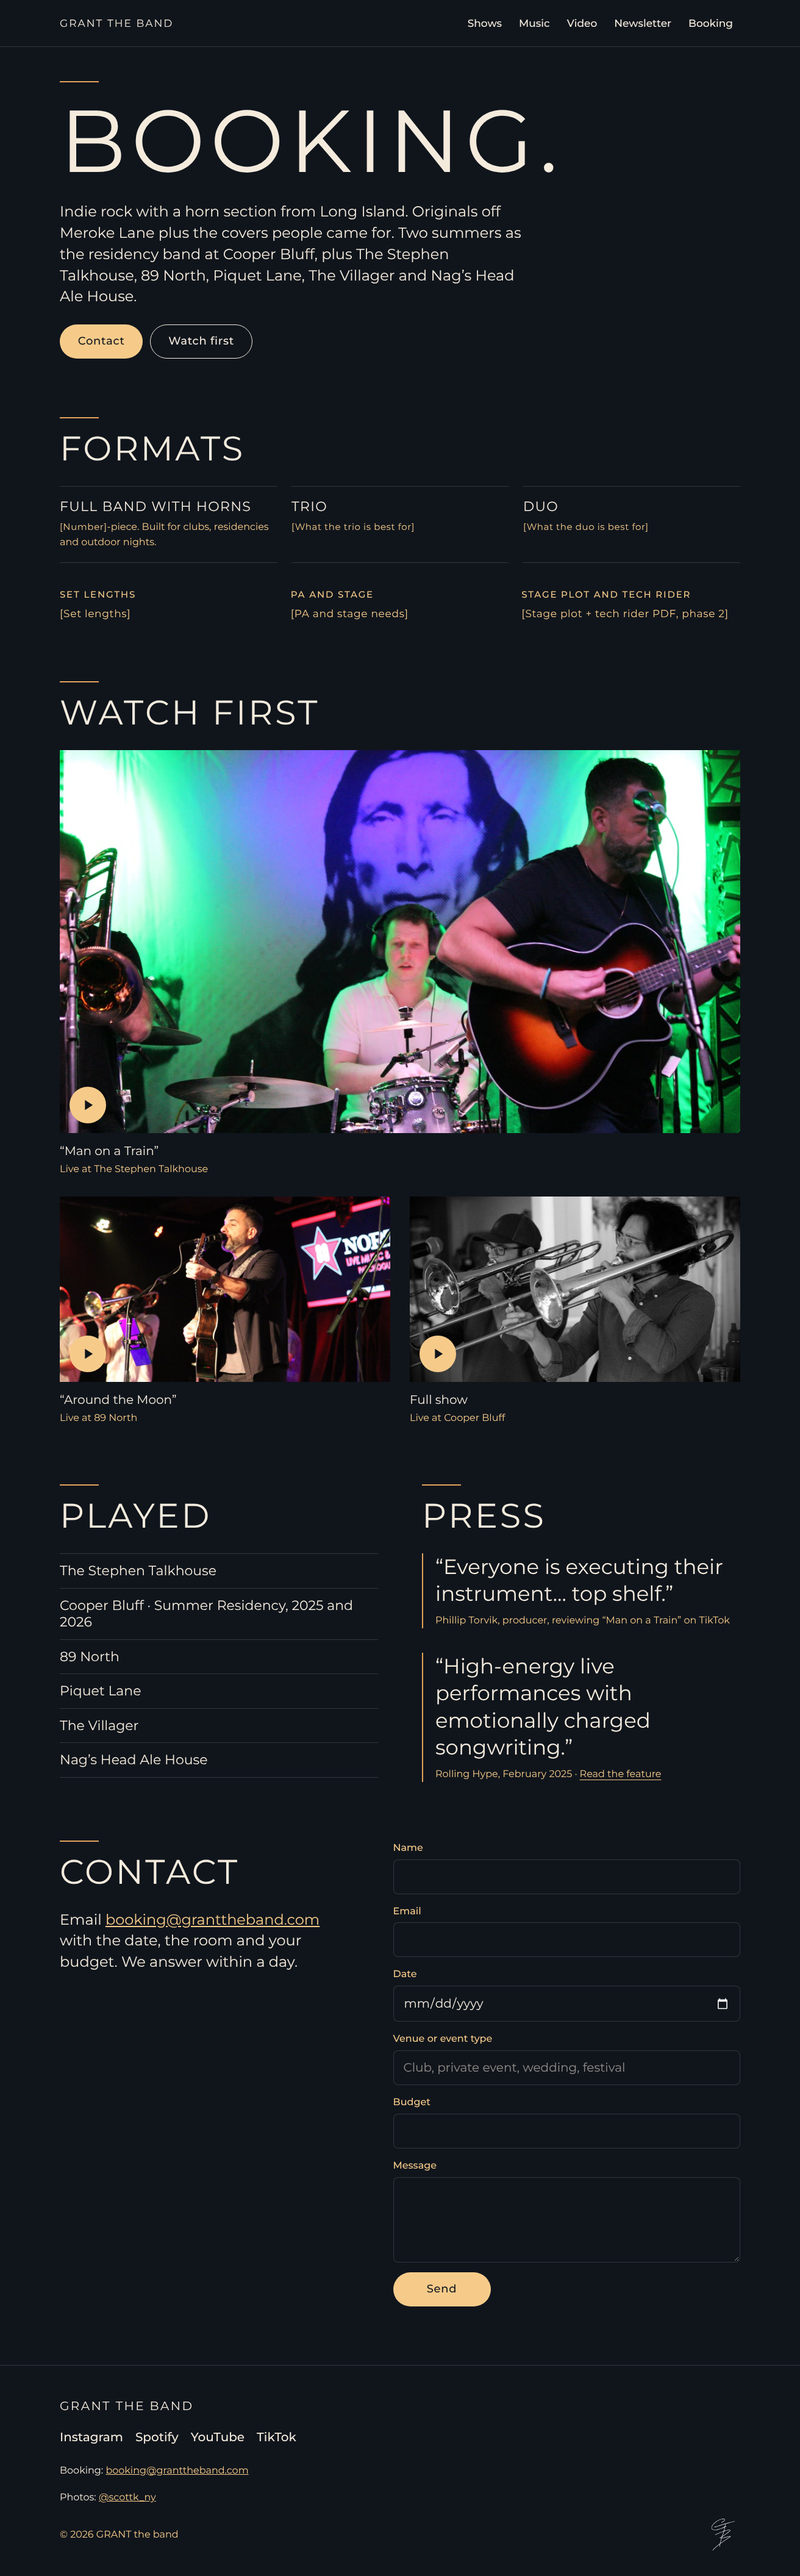
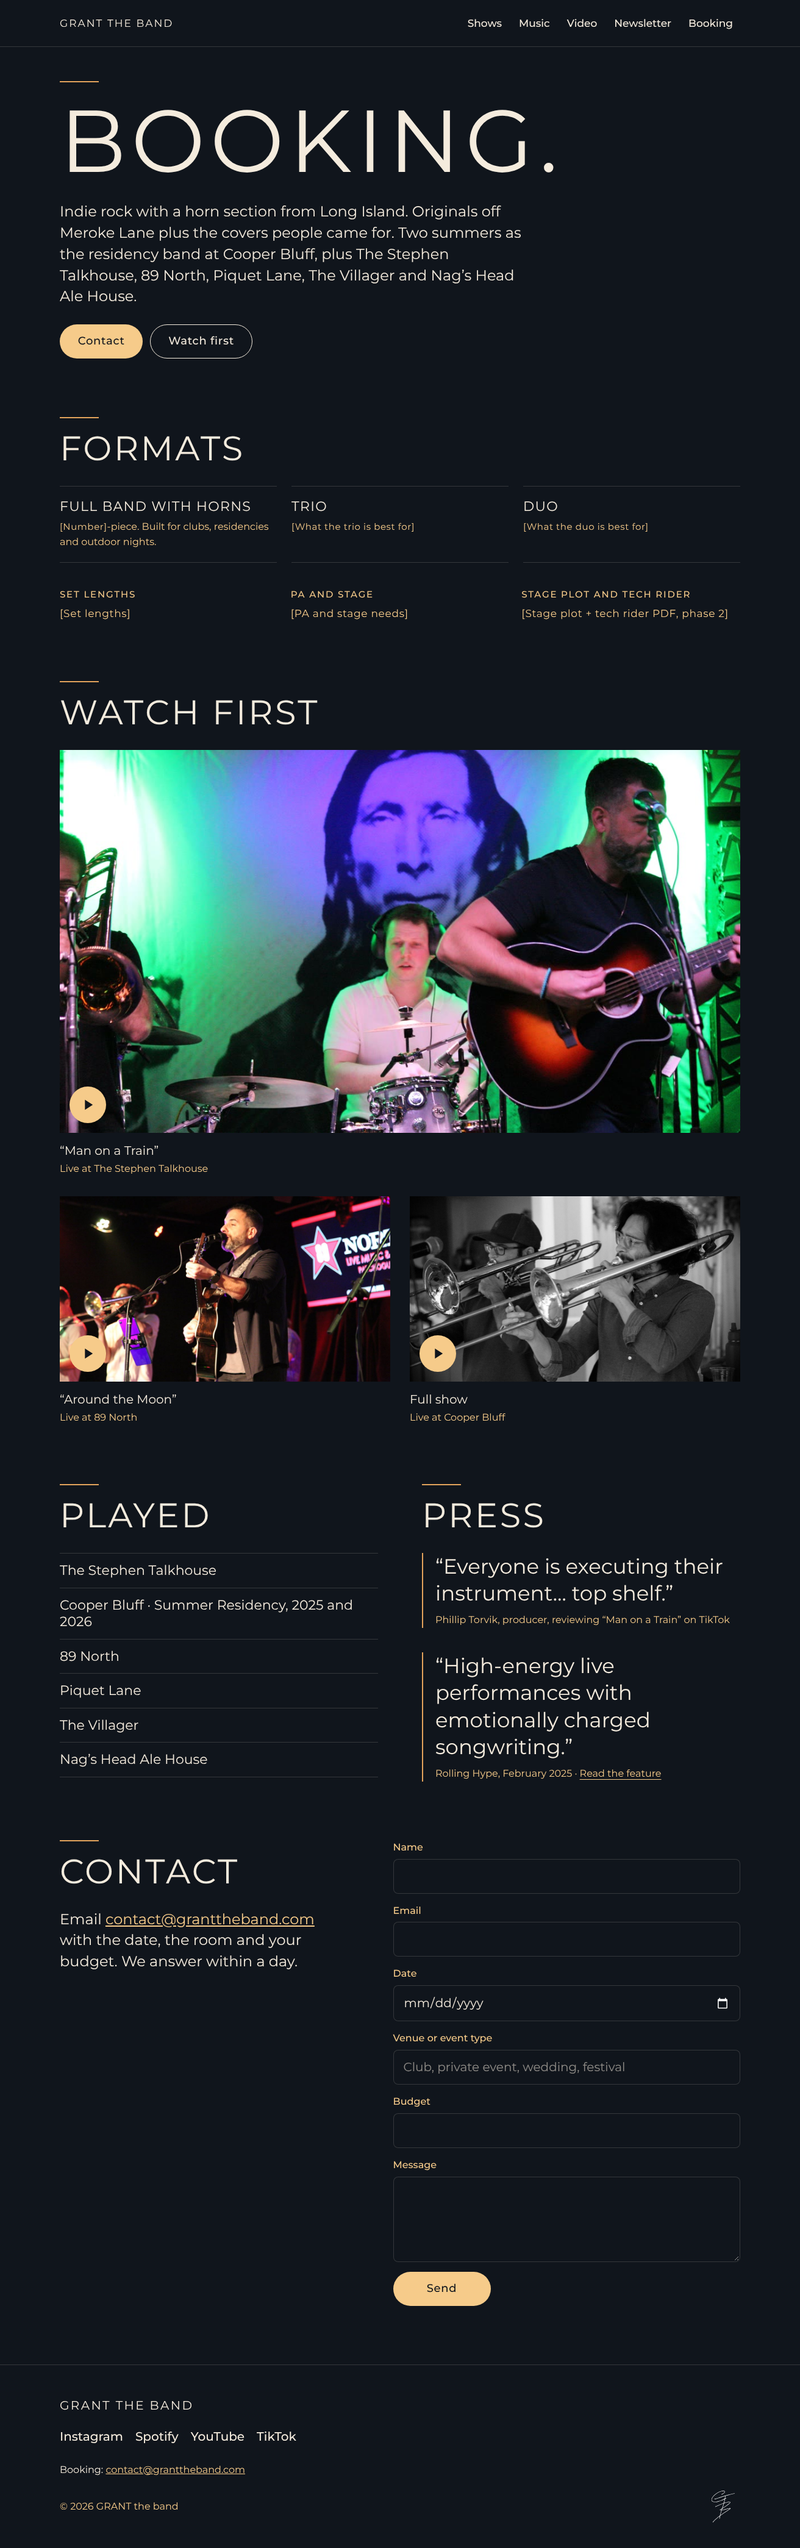
Booking email contact@granttheband.com; remove photo credit
- Booking email is now contact@granttheband.com (footer, /book contact,
  mailto links)
- @scottk_ny credit removed from alt text and the footer; no photo
  credits on the site for now
- CLAUDE.md updated; ASSETS.md left as the source record
- Screenshots re-rendered

Claude-Session: https://claude.ai/code/session_01W6jjmem6fid2ThtCrqmyVk

diff --git a/src/data/site.ts b/src/data/site.ts
@@ -16,7 +16,7 @@ export const links = {
   merokeLaneYoutube: null as string | null,
 };
 
-export const bookingEmail = 'booking@granttheband.com' as string | null;
+export const bookingEmail = 'contact@granttheband.com' as string | null;
 
 // Real logo, when Noah sends it: drop the SVG in public/ and set the path here.
 // Until then Wordmark.astro renders the type version.
@@ -30,10 +30,9 @@ export const searchConsoleToken = null as string | null;
 
 // Photographer credits. Every photo names one of these (or null while the credit is
 // missing), and the footer lists the credits for photos actually rendered on the site.
-export const photographers = {
-  scottk: { handle: '@scottk_ny', url: 'https://www.instagram.com/scottk_ny' },
-} as const;
-export type PhotographerId = keyof typeof photographers;
+// None shown at the moment (Noah's call); add { id: { handle, url } } to credit someone.
+export const photographers: Record<string, { handle: string; url: string }> = {};
+export type PhotographerId = string;
 
 export type Photo = {
   src: string;
@@ -90,8 +89,8 @@ export const photos = {
     src: '/images/cooper-horns.jpg',
     width: 1086,
     height: 724,
-    alt: 'GRANT the band’s horn section playing at Cooper Bluff, black and white. Photo by @scottk_ny',
-    credit: 'scottk',
+    alt: 'GRANT the band’s horn section playing at Cooper Bluff, black and white',
+    credit: null,
   },
   cover: {
     // Original only: keeps the cover's Content Credentials intact (see ASSETS.md).

diff --git a/CLAUDE.md b/CLAUDE.md
@@ -100,7 +100,7 @@ Each show renders as the "Next stop." ticket: cream paper `#F3E9D6`, rounded cor
 ### Signature and credits
 
 - GTB handwritten monogram (white): `public/images/gtb-monogram.svg` small in the footer; the favicons render it on night (`scripts/make-images.cjs`).
-- Credit photographers in alt text and the footer. Cooper Bluff photos: @scottk_ny. Talkhouse and 89 North photos and the hero video ship without a credit (Noah's call); if a credit turns up later, add it to `photographers` in `site.ts`. Every photo is in `photos` in `site.ts` with its credit, and the footer shows credits for photos actually rendered.
+- No photographer credits on the site right now (Noah's call), including the Cooper Bluff photos. If credits come back, add them to `photographers` in `site.ts`; they then show in alt text and the footer. Every photo is in `photos` in `site.ts` with its credit, and the footer shows credits for photos actually rendered.
 
 ### Photo and video handling
 
@@ -148,7 +148,7 @@ Use this copy as written. Typographic apostrophes and quotes. Never use em dashe
 6. Newsletter (`#newsletter`): title "FIRST TO KNOW.", gold line "New music and show dates, before anyone else." Email field + "Sign up". Same copy everywhere the signup appears (except the /shows empty state's inline "Get them first.").
 
 Section titles are statements, not category words. Nav labels stay Shows, Music, Video, Newsletter, Booking.
-7. Footer (every page): small wordmark, Instagram, Spotify, YouTube, TikTok (a 2x2 grid on phones), "Booking: booking@granttheband.com", photo credits, "© 2026 GRANT the band", GTB monogram. No location line.
+7. Footer (every page): small wordmark, Instagram, Spotify, YouTube, TikTok (a 2x2 grid on phones), "Booking: contact@granttheband.com", photo credits, "© 2026 GRANT the band", GTB monogram. No location line.
 
 Not on home: venue list, press quote, booking teaser. Those live on `/book`.
 
@@ -172,7 +172,7 @@ Not on home: venue list, press quote, booking teaser. Those live on `/book`.
   1. “Everyone is executing their instrument… top shelf.” Phillip Torvik, producer, reviewing “Man on a Train” on TikTok ("on TikTok" is plain text, no link, by Noah's call).
   2. “High-energy live performances with emotionally charged songwriting.” Rolling Hype, February 2025 · Read the feature (links to https://rollinghype.com/grant-the-band-the-energy-the-originals-and-the-covers-you-cant-miss/, new tab, rel="noopener").
 - Downloads: stage plot and tech rider PDF (phase 2).
-- Contact: "Email booking@granttheband.com with the date, the room and your budget. We answer within a day." Plus a Netlify form, fields in this order: name, email, date, venue or event type (placeholder "Club, private event, wedding, festival"), budget, message. Honeypot field is visually hidden and aria-hidden.
+- Contact: "Email contact@granttheband.com with the date, the room and your budget. We answer within a day." Plus a Netlify form, fields in this order: name, email, date, venue or event type (placeholder "Club, private event, wedding, festival"), budget, message. Honeypot field is visually hidden and aria-hidden.
 - No fan signup block on /book. The page is for buyers only.
 - Do not add a band member photo grid. The lineup rotates.
 
